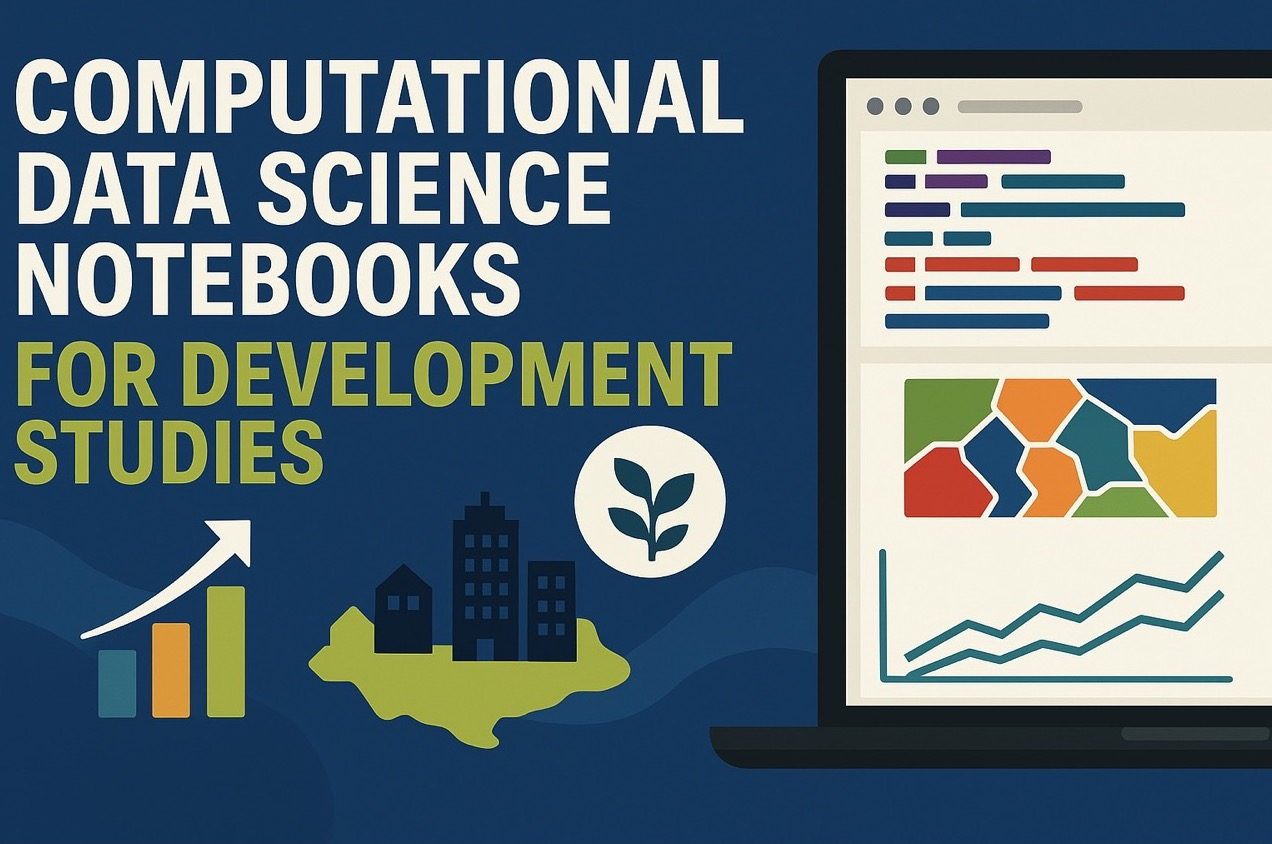
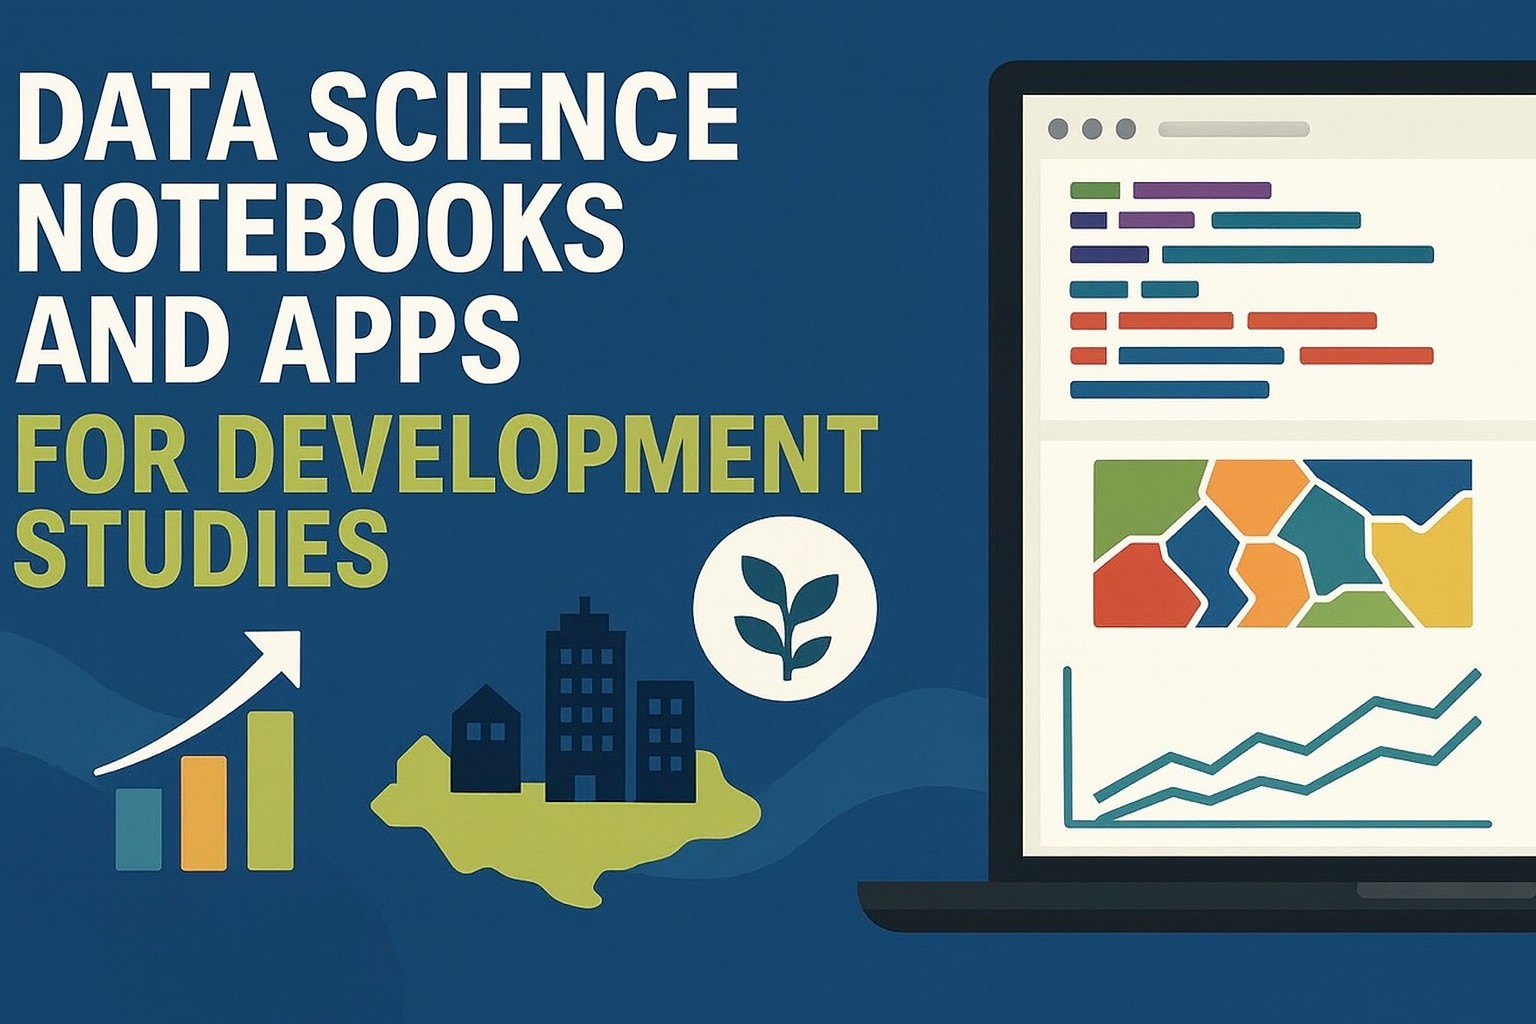
add notebooks

diff --git a/content/project/ds4ds/index.md b/content/project/ds4ds/index.md
@@ -4,12 +4,12 @@ external_link: ""
 image:
   caption: ""
   focal_point: Smart
-summary: Computational data science notebooks to foster development studies.
+summary: Computational data science notebooks and apps to foster development studies.
 tags:
 - spatial
 - python
 - regional
-title: Computational data science notebooks for development studies
+title: Computational data science notebooks and apps for development studies
 url_code: ""
 url_pdf: ""
 url_slides: ""
@@ -18,7 +18,7 @@ url_video: ""
 
 How to cite this project:
 
-> Mendez C. (2025) Computational Data Science Notebooks for Development Studies. Zenodo [https://doi.org/10.5281/zenodo.15250204](https://doi.org/10.5281/zenodo.15250204)
+> Mendez C. (2025) Computational Data Science Notebooks and Apps for Development Studies. Zenodo [https://doi.org/10.5281/zenodo.15250204](https://doi.org/10.5281/zenodo.15250204)
 
 Contribute and provide feedback at [https://github.com/cmg777/ds4ds](https://github.com/cmg777/ds4ds)
 
@@ -27,6 +27,8 @@ Contribute and provide feedback at [https://github.com/cmg777/ds4ds](https://git
 
 - Mendez C. (2024) [Gapminder introduction to data science using Python](https://colab.research.google.com/drive/1yQXb87X9SlwzJue_C5VQkWwnuf-RRSKH?usp=sharing)
 - Mendez C. (2025) [Introduction to statistical differences and relationships using Python](https://colab.research.google.com/drive/18Wt4yk0cXZQqWY5CRZ9GtyXf_DxvqeP6?usp=sharing)
+- Mendez C. (2025) [Statistics is about differences, relationships, and predictions]
+(https://colab.research.google.com/drive/17GPVtS4VaFgZaazDca9zYG46hxEZLzWN?usp=sharing)
 - Mendez C. (2024) [Descriptive statistics and multi-boundary mapping using Python](https://colab.research.google.com/drive/19VEvdgzQaoZ-Hind9Nrb8LEw_RFMCxPW?usp=sharing)
 - Mendez C. (2025) [Use regressions to explore relationships using Python](https://colab.research.google.com/drive/16MAqYI-SWOT6GmZHDko1PHJFWu-bkc8-?usp=sharing)
 
@@ -52,7 +54,7 @@ Contribute and provide feedback at [https://github.com/cmg777/ds4ds](https://git
 ## Machine learning
 
 - Mendez C. (2025) [Introductory machine learning for econometrics: Exploring the Mincer equation in Python](https://colab.research.google.com/drive/1dV4eylUEGUWFRknaK7yK-kTgt_QtpO_G?usp=sharing)
-- TBA
+- Mendez C. (2025) [An interactive app to learn SHAP plots with XGBoost predictions](https://g.co/gemini/share/f3436ed96fe7)
   
 ## Spatial econometrics
 
